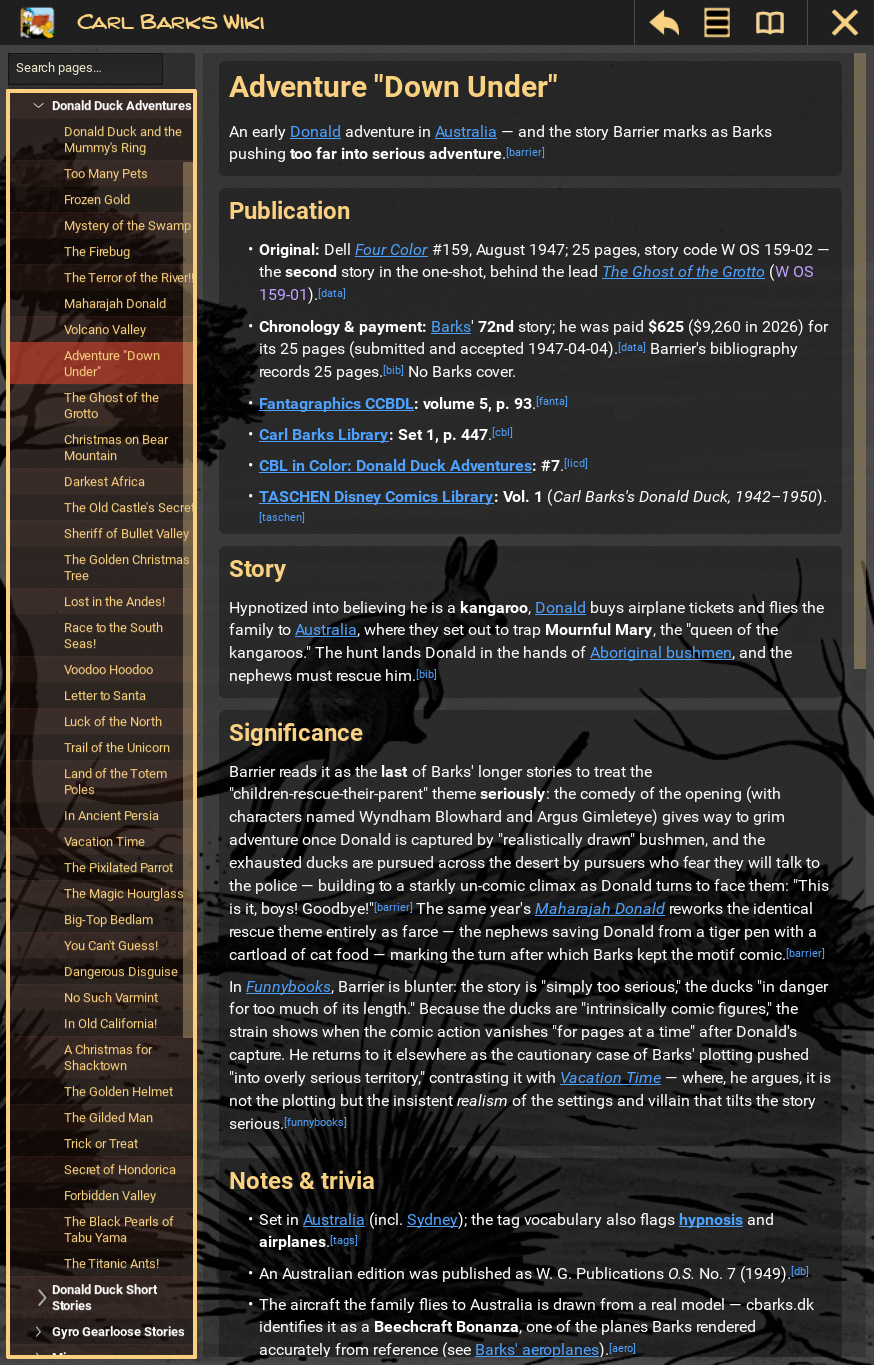
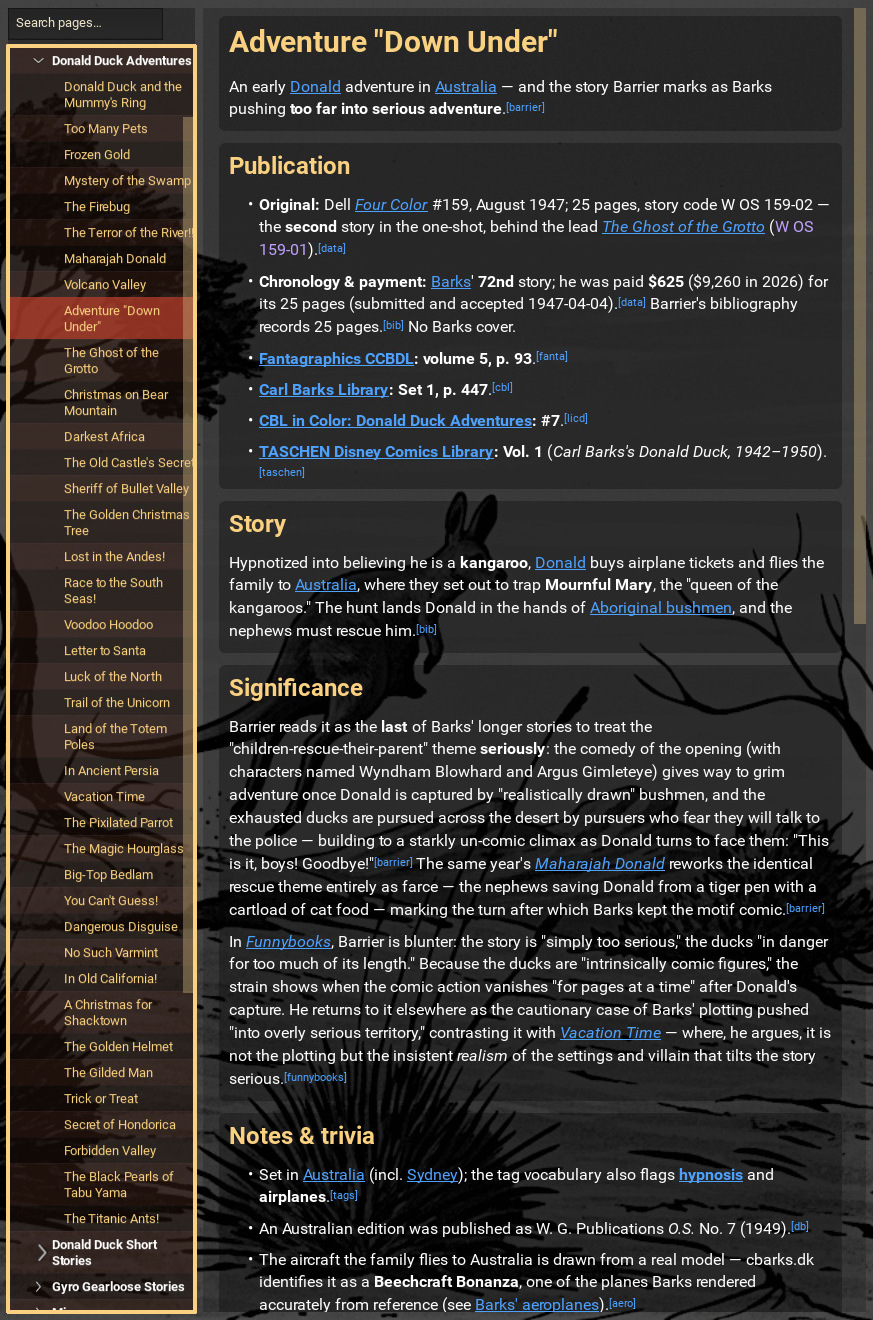
docs(website): the page shows the spread whole and a page of it close up
Stage 2 of the website layout plan. The screenshot tags give the new
files' sizes. A layout section, first in Features, puts the title view
on the two-page spread beside the same view on a single page, at one
height. The comic reader's double page is a wide figure under its text
rather than in the side column. The index section shows the index and
the search crops one over the other. The wiki's close-up loses its
title bar, so every close-up is the same shape.

The layout section has its heading and pictures but not yet its text,
which is stage 3's, so this is pushed with stage 3.

Changed region(s): [[0.0, 0.0, 1.0, 1.0], [0.9588, 0.9008, 1.0, 0.9318]]

diff --git a/website/app.html b/website/app.html
@@ -484,6 +484,45 @@
             }
         }
 
+        /* A whole-window picture under its section's text. The spread is twice as
+           wide as a page, so it takes the text column's width, not the 340 px side
+           column, and stops short of full width so it is not a screen tall. */
+        .art-panel--wide {
+            max-width: 900px;
+            margin: 25px auto 0;
+        }
+
+        /* The one place the single page is shown: the same view both ways, side by
+           side at one height. The tracks are the two captures' widths, so equal
+           heights fall out of the grid; the ink edge is a shadow ring rather than
+           a border so it adds nothing to either width and the heights stay equal. */
+        .layout-pair {
+            display: grid;
+            grid-template-columns: 1749fr 874fr;
+            gap: 22px;
+            align-items: start;
+            margin-top: 20px;
+        }
+
+        .layout-pair figure {
+            margin: 0;
+        }
+
+        .layout-pair img {
+            display: block;
+            width: 100%;
+            height: auto;
+            border-radius: 3px;
+            box-shadow: 0 0 0 3px var(--ink), 5px 5px 0 3px var(--ink);
+        }
+
+        .layout-pair figcaption {
+            margin-top: 14px;
+            text-align: center;
+            font-size: 0.95rem;
+            color: var(--ink-soft);
+        }
+
         .platform-tabs {
             display: flex;
             gap: 10px;
@@ -926,27 +965,27 @@
             <div class="screenshots-grid">
                 <div class="screenshot-item">
                     <h4>Main Window, on a Wide Monitor</h4>
-                    <img src="screenshot-main-window.jpg" alt="The main window as a two-page spread: the story tree on the left page, the fun view on the right" width="1775" height="1365" loading="lazy">
+                    <img src="screenshot-main-window.jpg" alt="The main window as a two-page spread: the story tree on the left page, the fun view on the right" width="1749" height="1365" loading="lazy">
                 </div>
                 <div class="screenshot-item">
                     <h4>Selecting a Title</h4>
-                    <img src="screenshot-selecting-a-title.jpg" alt="Selecting a title on the two-page spread: the story list on the left page, the title view on the right" width="1775" height="1365" loading="lazy">
+                    <img src="screenshot-selecting-a-title.jpg" alt="Selecting a title on the two-page spread: the story list on the left page, the title view on the right" width="1749" height="1365" loading="lazy">
                 </div>
                 <div class="screenshot-item">
                     <h4>Reading a Story</h4>
-                    <img src="screenshot-reading-a-story.jpg" alt="Reading a Story" width="872" height="1364" loading="lazy">
+                    <img src="screenshot-reading-a-story.jpg" alt="A comic open two pages at a time: the first two pages of The Seven Cities of Cibola" width="1749" height="1365" loading="lazy">
                 </div>
                 <div class="screenshot-item">
                     <h4>Searching Titles</h4>
-                    <img src="screenshot-search-titles.jpg" alt="Searching Titles" width="873" height="1363" loading="lazy">
+                    <img src="screenshot-search-titles.jpg" alt="Searching titles on the two-page spread: the tree on the left page, the search and its six results on the right" width="1749" height="1365" loading="lazy">
                 </div>
                 <div class="screenshot-item">
                     <h4>Speech Bubble Index with Links</h4>
-                    <img src="screenshot-speech-bubble-index.jpg" alt="Speech Index" width="874" height="1365" loading="lazy">
+                    <img src="screenshot-speech-bubble-index.jpg" alt="The speech bubble index on the two-page spread: the tree on the left page, the words on the right with one opened to the stories that use it" width="1749" height="1365" loading="lazy">
                 </div>
                 <div class="screenshot-item">
                     <h4>Carl Barks Wiki</h4>
-                    <img src="screenshot-carl-barks-wiki.jpg" alt="The Carl Barks Wiki" width="873" height="1365" loading="lazy">
+                    <img src="screenshot-carl-barks-wiki.jpg" alt="The Carl Barks Wiki filling the window: its contents on the left, the Voodoo Hoodoo page beside them" width="1749" height="1365" loading="lazy">
                 </div>
             </div>
 
@@ -1008,6 +1047,20 @@
             <figure class="art-panel art-panel--banner">
                 <img src="features-bg.jpg" alt="" width="1800" height="600" loading="lazy">
             </figure>
+
+            <div class="feature-section">
+                <h3>Two-Page Spread or Single Page</h3>
+                <div class="layout-pair">
+                    <figure>
+                        <img src="screenshot-selecting-a-title.jpg" alt="A story's title view on the two-page spread: the story list on the left page, the title view on the right" width="1749" height="1365" loading="lazy">
+                        <figcaption>Two-page spread, on a landscape screen</figcaption>
+                    </figure>
+                    <figure>
+                        <img src="screenshot-title-view-single-page.jpg" alt="The same title view on a single page: the story list above, the title view below" width="874" height="1365" loading="lazy">
+                        <figcaption>Single page, on a portrait screen</figcaption>
+                    </figure>
+                </div>
+            </div>
 
             <div class="feature-section">
                 <h3>Chronological Access to All Stories</h3>
@@ -1080,10 +1133,7 @@
                 </figure>
             </div>
 
-            <div class="feature-section feature-section--split feature-section--flip">
-                <figure class="art-panel">
-                    <img src="screenshot-reading-a-story.jpg" alt="Reading a Story" width="872" height="1364" loading="lazy">
-                </figure>
+            <div class="feature-section">
                 <div>
                     <h3>Fullscreen Reader</h3>
                     <p>When you select a story through the title portal image, the comic is
@@ -1098,6 +1148,9 @@
                     <button class="chapter-link" data-chapter="read_story">&#9654; Skip to a page</button>
                     <button class="chapter-link" data-chapter="fullscreen">&#9654; Fullscreen</button>
                 </div>
+                <figure class="art-panel art-panel--wide">
+                    <img src="screenshot-reading-a-story.jpg" alt="A comic open two pages at a time: the first two pages of The Seven Cities of Cibola" width="1749" height="1365" loading="lazy">
+                </figure>
             </div>
 
             <div class="feature-section feature-section--split">
@@ -1114,14 +1167,19 @@
                     <button class="chapter-link" data-chapter="search_words">&#9654; Search spoken words</button>
                     <button class="chapter-link" data-chapter="speech_index">&#9654; The index</button>
                 </div>
-                <figure class="art-panel">
-                    <img src="screenshot-speech-bubble-index.jpg" alt="Speech Bubble Index" width="874" height="1365" loading="lazy">
-                </figure>
+                <div>
+                    <figure class="art-panel">
+                        <img src="screenshot-speech-bubble-index-page.jpg" alt="The speech bubble index: words starting ah to aj, one opened to the stories that use it" width="874" height="1320" loading="lazy">
+                    </figure>
+                    <figure class="art-panel">
+                        <img src="screenshot-search-titles-page.jpg" alt="A title search for lost and its six results" width="874" height="1320" loading="lazy">
+                    </figure>
+                </div>
             </div>
 
             <div class="feature-section feature-section--split feature-section--flip">
                 <figure class="art-panel">
-                    <img src="screenshot-carl-barks-wiki-2.jpg" alt="The Carl Barks Wiki" width="873" height="1365" loading="lazy">
+                    <img src="screenshot-carl-barks-wiki-2.jpg" alt="The Carl Barks Wiki" width="873" height="1320" loading="lazy">
                 </figure>
                 <div>
                     <h3>The Carl Barks Wiki, Built In</h3>
@@ -1165,7 +1223,7 @@
                     <button class="chapter-link" data-chapter="reading">&#9654; Watch this</button>
                 </div>
                 <figure class="art-panel">
-                    <img src="screenshot-reading-history-bg.jpg" alt="Reading History" width="874" height="1365" loading="lazy">
+                    <img src="screenshot-reading-history-bg-page.jpg" alt="The reading history's journal: each day's reads, newest first" width="874" height="1320" loading="lazy">
                 </figure>
             </div>
 

diff --git a/docs/plans/website-spread-consistency.md b/docs/plans/website-spread-consistency.md
@@ -1,10 +1,11 @@
 # Plan: one layout story on the website
 
-> Status: **review done 2026-10-30; stage 1 done 2026-11-01.** The review is of
+> Status: **review done 2026-10-30; stages 1 and 2 done 2026-11-01.** The review is of
 > `website/app.html` as it stood at commit 618a5c39, after the two-page spread landed
 > (`docs/plans/two-page-spread.md`). Tick the stages off here, with their commits, as they
-> land. The site is GitHub Pages served from `main`, so stage 1's pictures are pushed only
-> with stage 2's HTML on top: alone, they put spreads in the 340 px Features column.
+> land. The site is GitHub Pages served from `main`, so stages 1 and 2 are pushed only with
+> stage 3 on top: stage 1 alone puts spreads in the 340 px Features column, and stage 2
+> adds the layout section with its pictures but not yet its text.
 
 ## The problem
 
@@ -91,13 +92,25 @@ layout.
   scratch copy of the profile with `log_level = DEBUG` and the layout set to
   *Two-page spread*. The fun view and backgrounds are random: the menu bar's refresh
   button and a reboot re-roll them.
-- [ ] **Stage 2, the pictures in the page.** The Screenshots grid: six spread captures.
+- [x] **Stage 2, the pictures in the page.** The Screenshots grid: six spread captures.
   The comic reader section shows the double page as a wide figure under its paragraph,
   not in the 340 px side column. A new layout section gets the one paired figure on
   the page: a title view as a spread beside the same view as a single page, each
   captioned. Every other Features close-up is a cropped page. Every screenshot `<img>`
   states its file's size, and all of them have changed in stage 1: a spread is
   `width="1749" height="1365"`, a page crop `width="874" height="1320"`.
+
+  *Done 2026-11-01.* The layout section, "Two-Page Spread or Single Page", is first in
+  Features with a heading and the pair only; its text is stage 3's. The pair is
+  `screenshot-selecting-a-title.jpg` beside `screenshot-title-view-single-page.jpg`
+  (874x1365, a new capture of the same title on *Single page*), captioned with the
+  setting's name and the screen it suits; `.layout-pair` gives the grid tracks the two
+  widths, so the pictures come out one height. The comic reader's double page is an
+  `art-panel--wide` figure, at most 900 px, under the section's buttons. The index
+  section stacks the index crop over the search crop in its side column. The wiki's
+  close-up lost its 45 px title bar to match the other crops' shape (873x1320). The
+  history spread `screenshot-reading-history-bg.jpg` is now on no page: only its crop
+  is shown.
 - [ ] **Stage 3, the text.**
   - Merge the Introduction's two layout bullets into one, in the setting's own words:
     a two-page spread on a landscape screen, the tree on the left page and the story on
